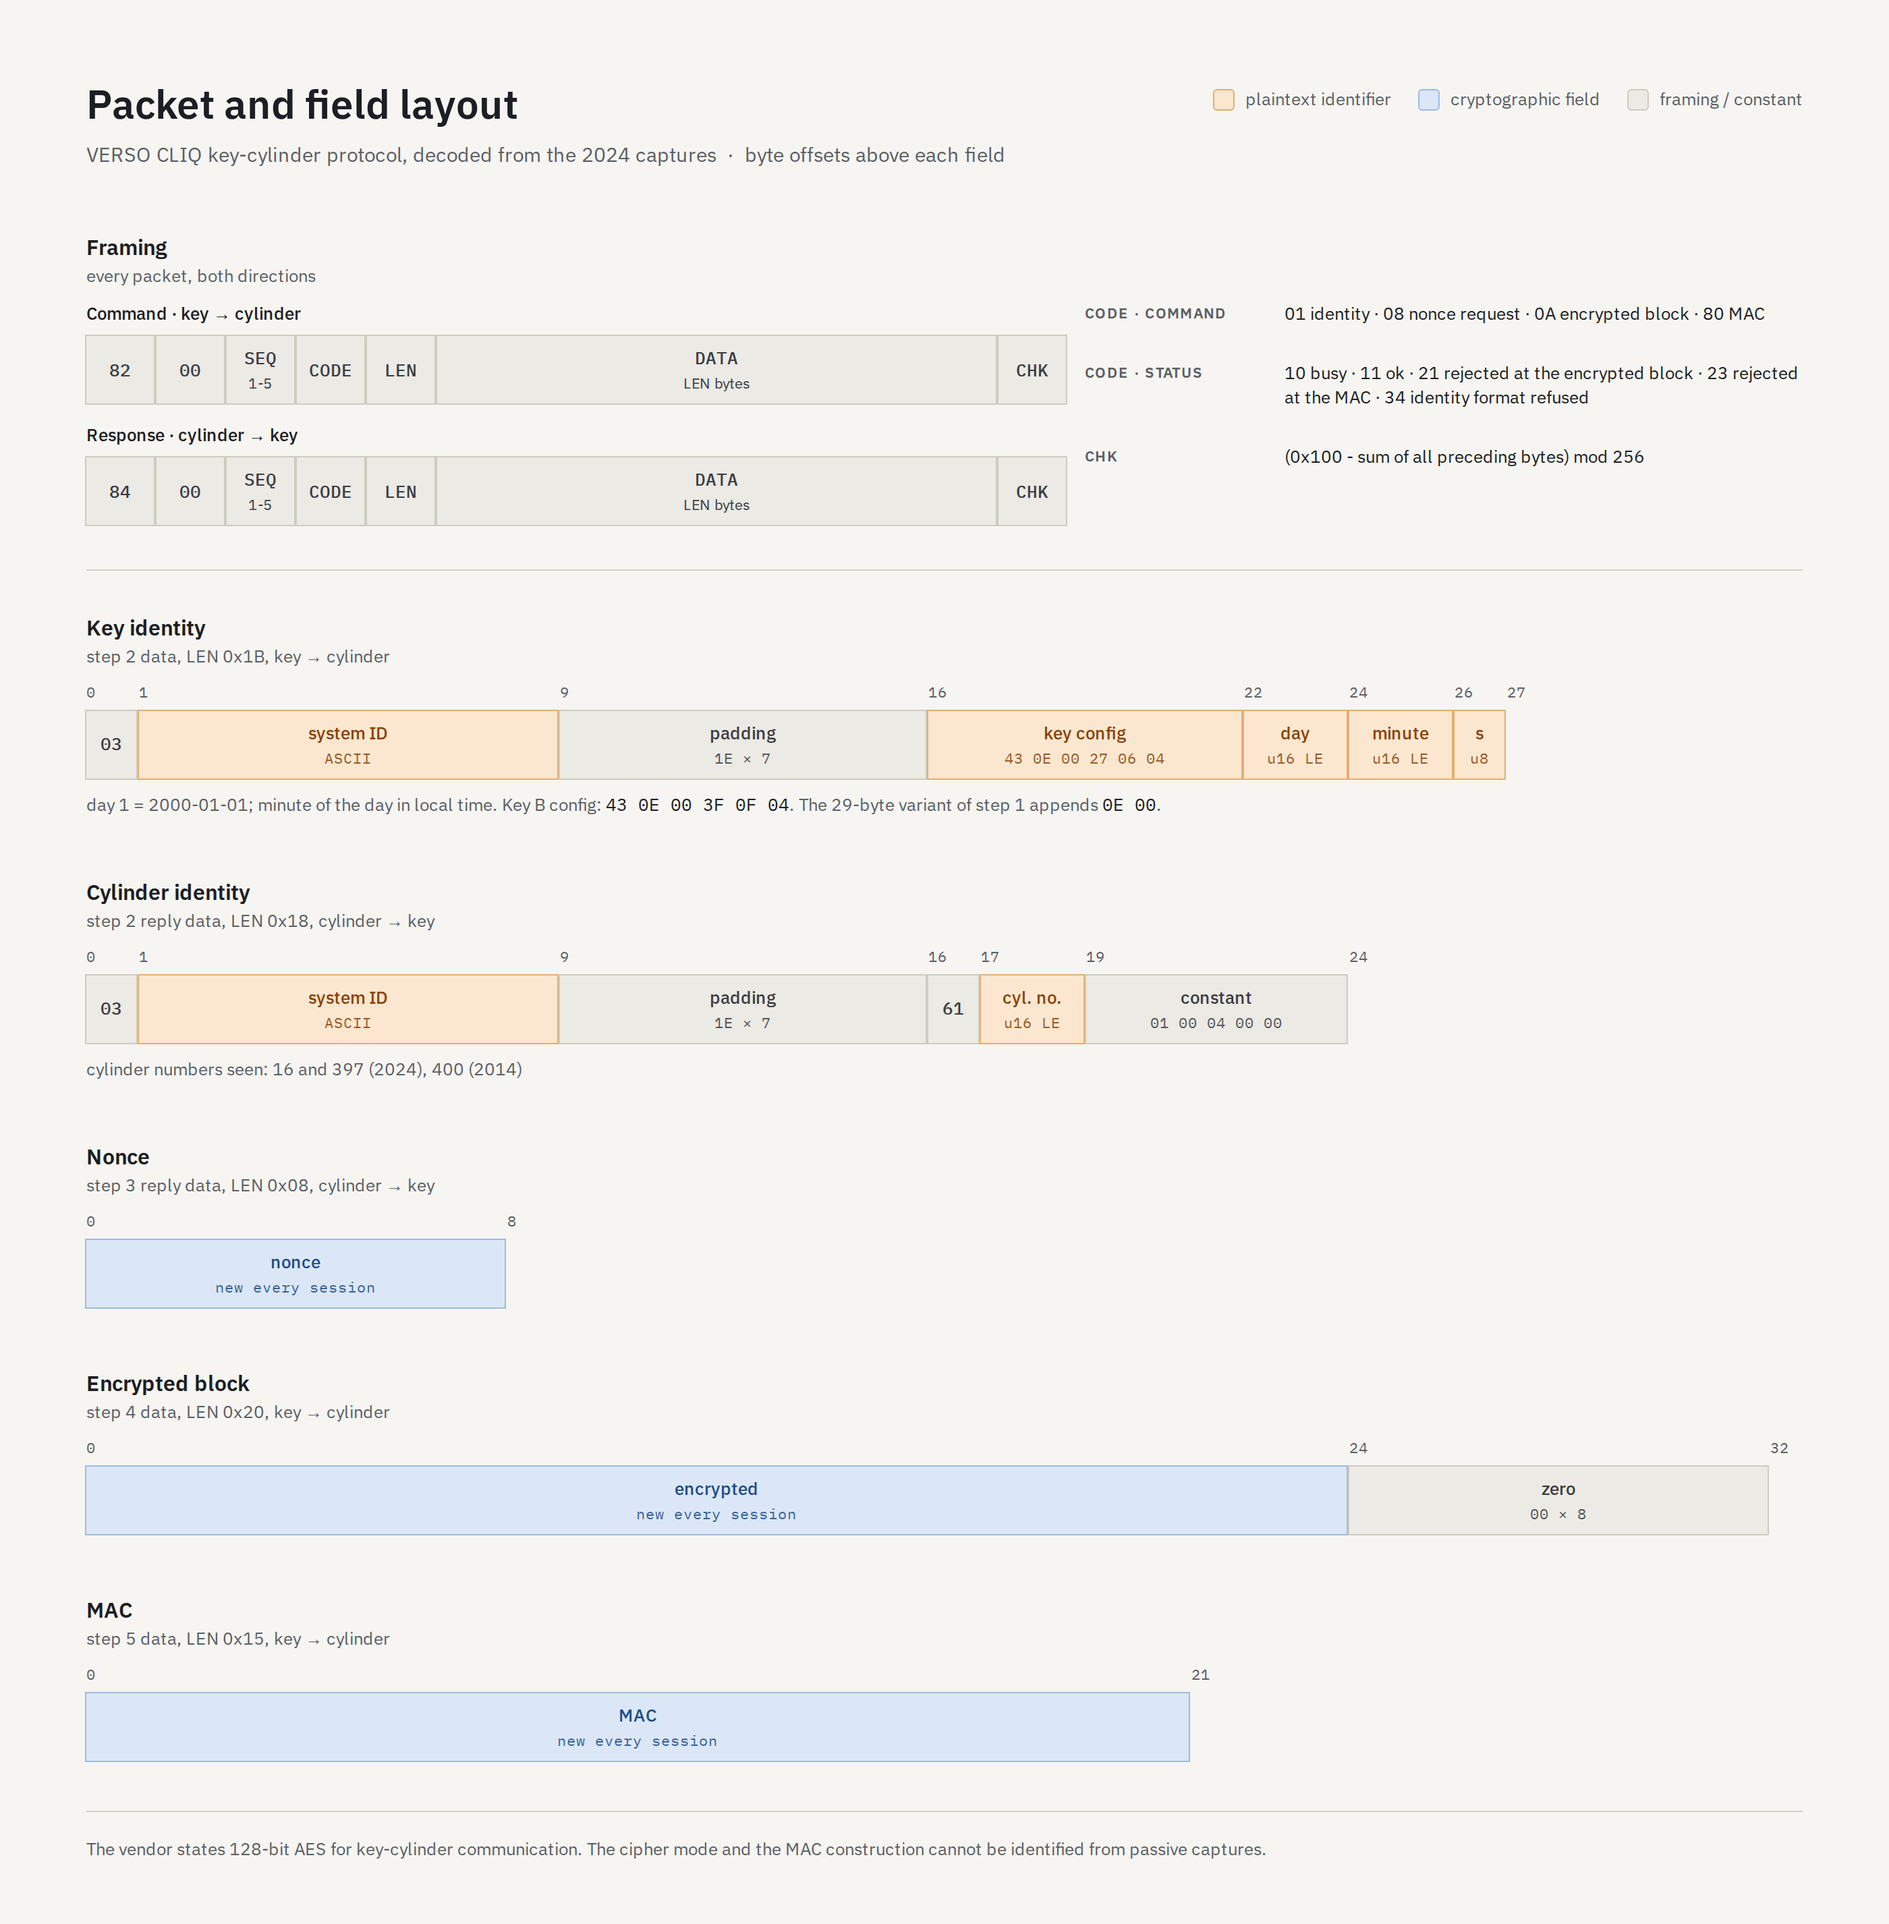
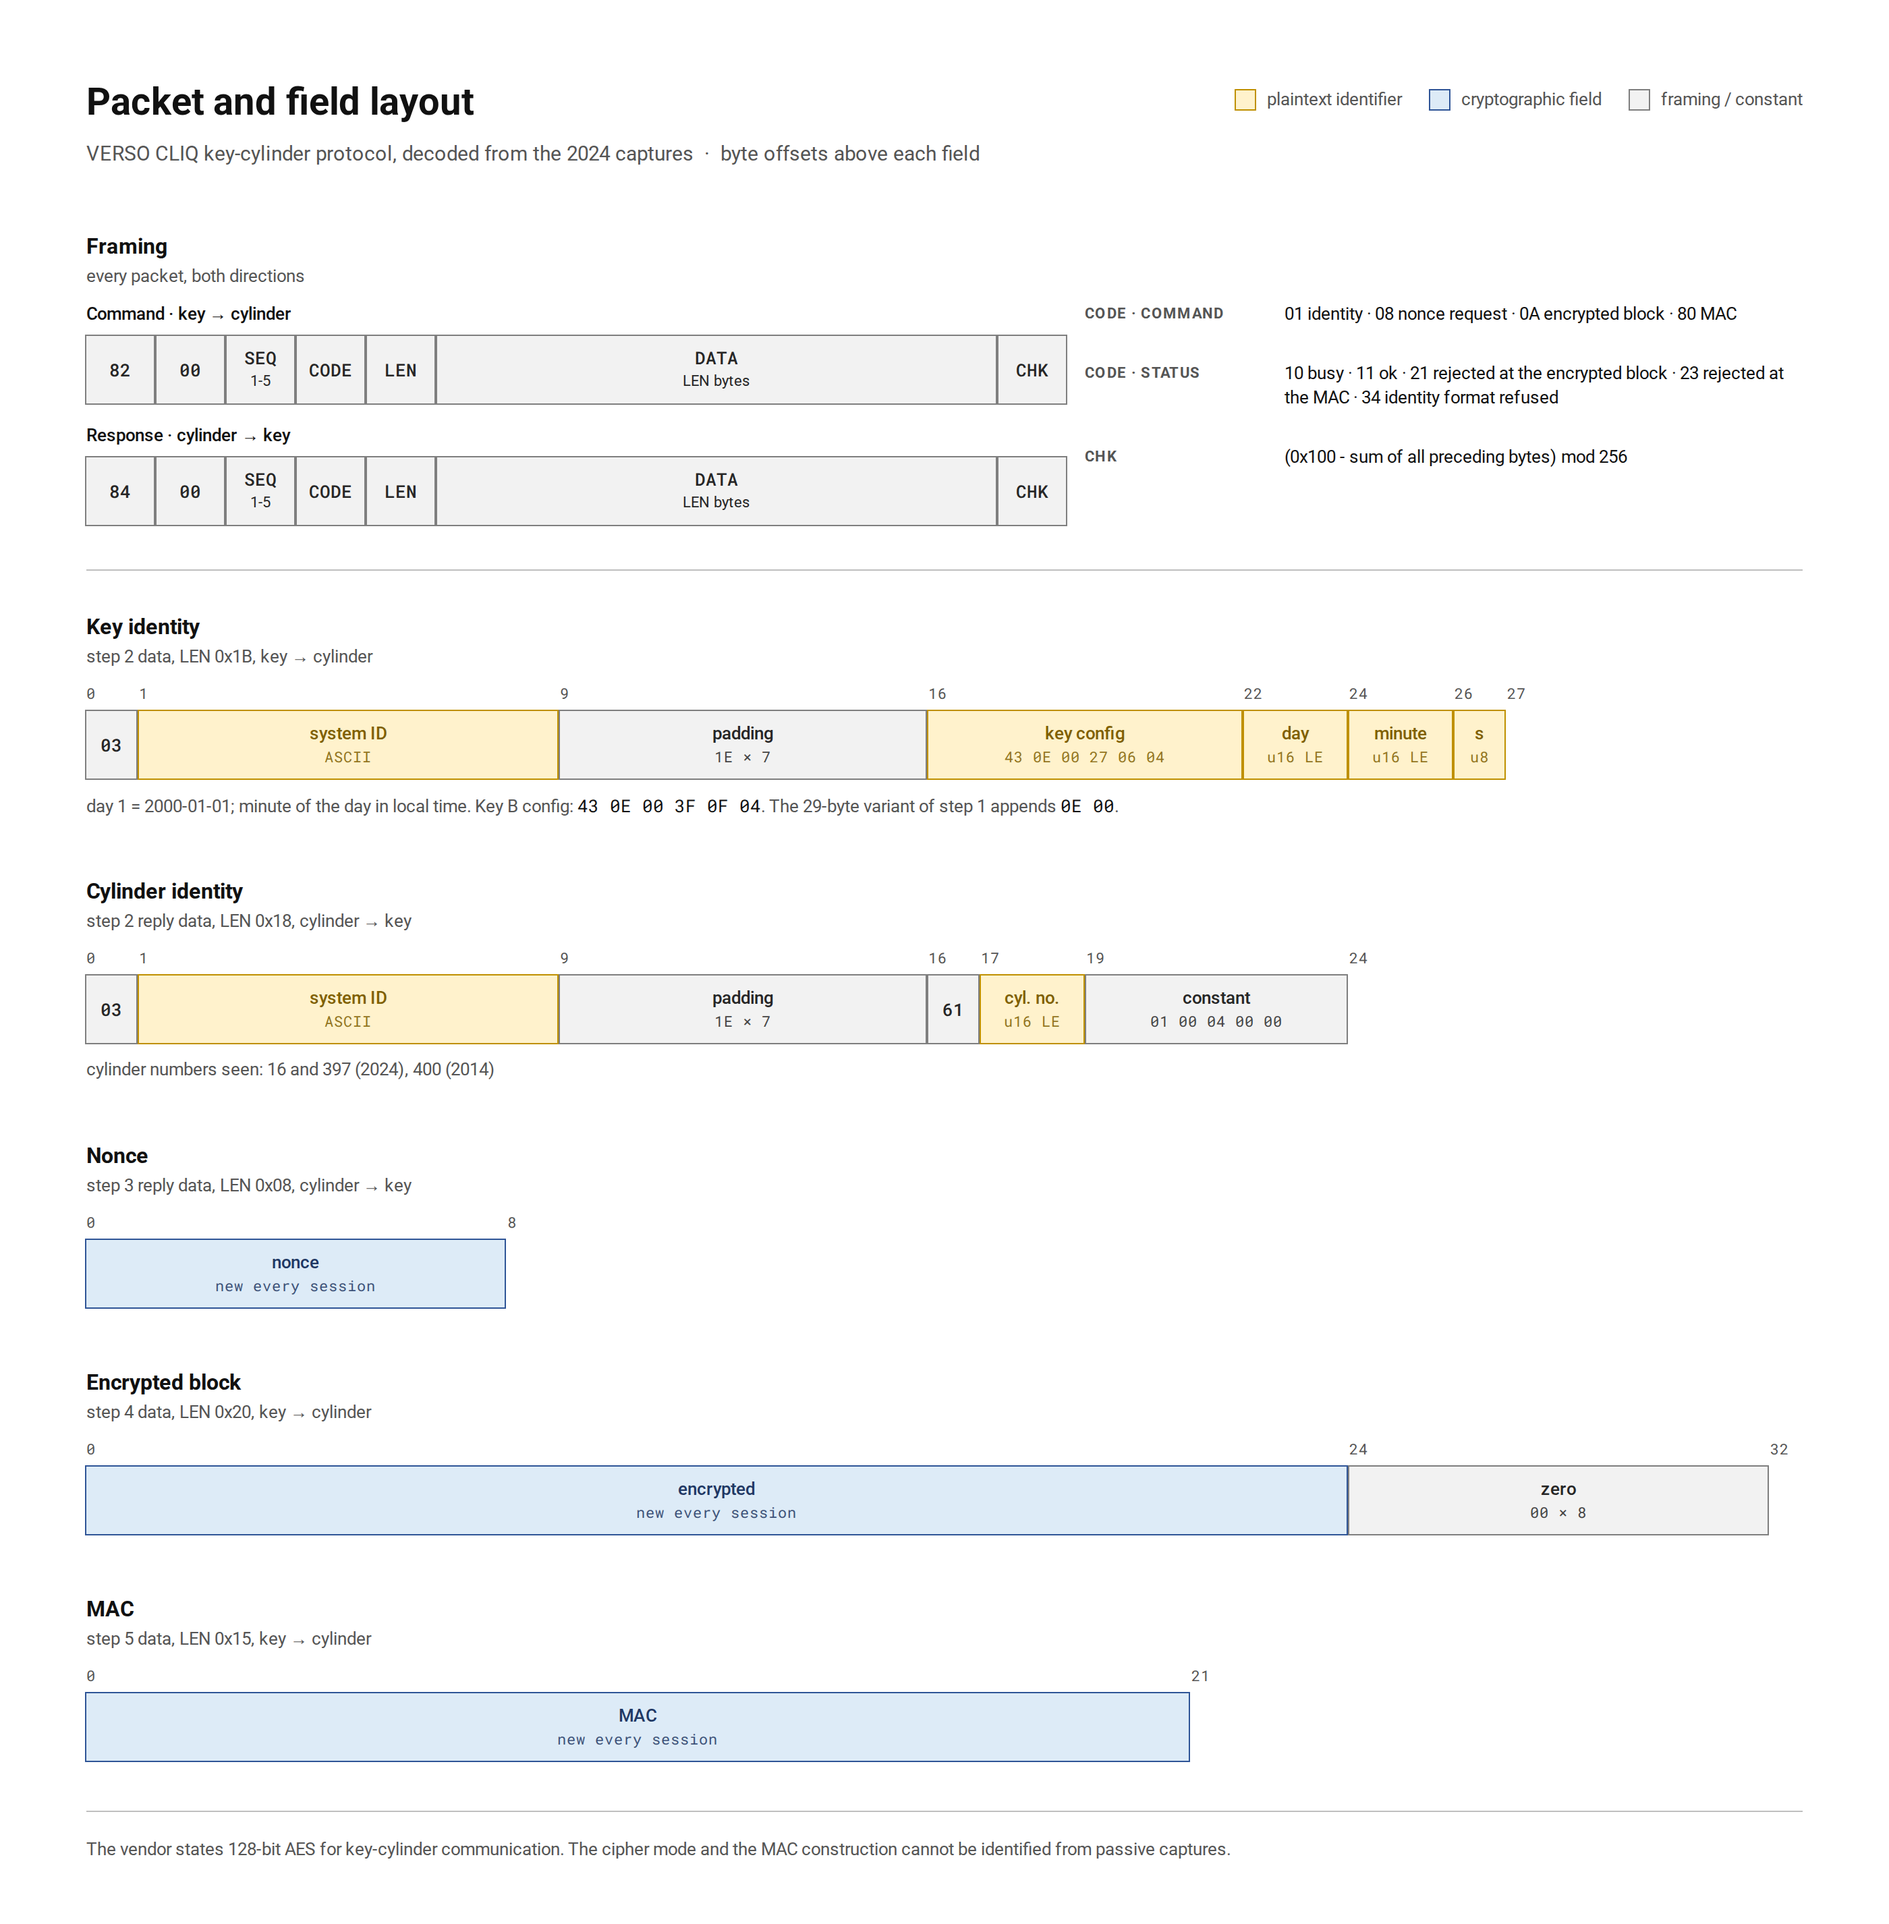
Restyle figures and trim README
- Redraw protocol_flow.png and packet_format.png in a plain
  engineering style: white background, black linework, square
  boxes, Roboto/Roboto Mono, yellow for plaintext identifiers and
  light blue for cryptographic fields
- Remove the Related Work and Corrections to Earlier Versions
  sections from the README
- Complete reference entries with verified pages and DOIs

diff --git a/scripts/generate_images.py b/scripts/generate_images.py
@@ -21,20 +21,22 @@ from sessions import REPO_ROOT, load_captures, unique
 OUT = os.path.join(REPO_ROOT, 'assets')
 
 # Design tokens
-GROUND = '#F6F5F1'
-INK = '#1C1E23'
-MUTED = '#5B5F66'
-RULE = '#D5D1C7'
-LIFELINE = '#B9B4A8'
-ARROW = '#2B2E35'
-BUSY = '#9E998D'
-AMBER = ('#FBE7CF', '#E3AE72', '#8A4208')    # fill, border, ink: plaintext identifiers
-BLUE = ('#DBE7F6', '#9DBBE3', '#1D4C87')     # cryptographic fields
-GREY = ('#ECEAE4', '#CFCBC1', '#3A3D44')     # framing, constants
-SANS = "'IBM Plex Sans', 'Helvetica Neue', Arial, sans-serif"
-MONO = "'IBM Plex Mono', 'SFMono-Regular', Menlo, Consolas, monospace"
+GROUND = '#FFFFFF'
+INK = '#111111'
+MUTED = '#555555'
+RULE = '#BFBFBF'
+LIFELINE = '#404040'
+ARROW = '#111111'
+BUSY = '#808080'
+AMBER = ('#FFF2CC', '#BF9000', '#7F6000')    # fill, border, ink: plaintext identifiers
+BLUE = ('#DDEBF7', '#2F5597', '#1F3864')     # cryptographic fields
+GREY = ('#F2F2F2', '#7F7F7F', '#262626')     # framing, constants
+CARD_RADIUS = 0
+PILL_RADIUS = 2
+SANS = "'Roboto', 'Helvetica Neue', Arial, sans-serif"
+MONO = "'Roboto Mono', Consolas, 'DejaVu Sans Mono', monospace"
 FONTS = ('<link rel="stylesheet" href="https://fonts.googleapis.com/css2?'
-         'family=IBM+Plex+Mono:wght@400;500&family=IBM+Plex+Sans:wght@400;500;600&display=swap">')
+         'family=Roboto+Mono:wght@400;500&family=Roboto:wght@400;500;700&display=swap">')
 W = 1400
 
 
@@ -66,7 +68,7 @@ def text(x, y, content, size=15, weight=400, color=INK, width=None, family=SANS,
 def pill(label, colors, mono=False):
     fill, border, ink = colors
     family = MONO if mono else SANS
-    return (f'<span style="display: inline-block; padding: 0 7px; margin: 0 2px; border-radius: 4px; '
+    return (f'<span style="display: inline-block; padding: 0 7px; margin: 0 2px; border-radius: {PILL_RADIUS}px; '
             f'background: {fill}; border: 1px solid {border}; color: {ink}; font-family: {family}; '
             f'font-size: 12px; line-height: 20px; font-weight: 500; vertical-align: 1px">{label}</span>')
 
@@ -109,7 +111,7 @@ def arrow(x1, x2, y, color=ARROW, width=2, dash=False):
 def legend(right, y):
     items = [('plaintext identifier', AMBER), ('cryptographic field', BLUE), ('framing / constant', GREY)]
     html = ''.join(f'<span style="display: flex; align-items: center; gap: 8px">'
-                   f'<span style="width: 14px; height: 14px; border-radius: 3px; background: {c[0]}; '
+                   f'<span style="width: 14px; height: 14px; background: {c[0]}; '
                    f'border: 1px solid {c[1]}"></span>{label}</span>' for label, c in items)
     return (f'<div style="position: absolute; right: {right}px; top: {y}px; display: flex; gap: 20px; '
             f'font-size: 13px; line-height: 20px; color: {MUTED}">{html}</div>')
@@ -168,7 +170,7 @@ def protocol_flow(uniq):
     ]
 
     el = []
-    el.append(text(64, 56, 'Unlock sequence', size=30, weight=600))
+    el.append(text(64, 56, 'Unlock sequence', size=28, weight=700))
     el.append(text(64, 104, f'VERSO CLIQ key and cylinder, 2024 captures &nbsp;·&nbsp; {len(uniq)} sessions, '
                             f'2 keys, 2 cylinders &nbsp;·&nbsp; {min(totals):.1f}-{max(totals):.1f} ms per unlock',
                    size=15, color=MUTED))
@@ -179,8 +181,8 @@ def protocol_flow(uniq):
                          (CX, 'Cylinder', 'no battery · keeps rights and audit log')):
         el.append(f'<div style="position: absolute; left: {x - 140}px; top: 164px; width: 280px; height: 64px; '
                   f'box-sizing: border-box; display: flex; align-items: center; justify-content: center; '
-                  f'text-align: center; background: #FFFFFF; border: 1px solid {RULE}; border-radius: 8px">'
-                  f'<span><b style="font-size: 16px; font-weight: 600">{name}</b><br>'
+                  f'text-align: center; background: #FFFFFF; border: 1px solid {LIFELINE}; border-radius: {CARD_RADIUS}px">'
+                  f'<span><b style="font-size: 16px; font-weight: 700">{name}</b><br>'
                   f'<span style="font-size: 12px; color: {MUTED}">{sub}</span></span></div>')
 
     y = 268
@@ -190,9 +192,9 @@ def protocol_flow(uniq):
             rows.append(hline(64, y, W - 128))
             y += 24
         top = y
-        rows.append(text(64, top, f'STEP {num}', size=12, weight=600, color=MUTED,
+        rows.append(text(64, top, f'STEP {num}', size=12, weight=700, color=MUTED,
                          extra=' letter-spacing: 0.08em;'))
-        rows.append(text(64, top + 20, title, size=17, weight=600, width=240))
+        rows.append(text(64, top + 20, title, size=17, weight=700, width=240))
         rows.append(text(64, top + 46, note, size=13, color=MUTED, width=230))
         for item in items:
             if item[0] == 'wait':
@@ -264,7 +266,7 @@ def field_map(x, y, fields):
 
 
 def section(y, title, meta, fields, caption):
-    el = [text(64, y, title, size=16, weight=600),
+    el = [text(64, y, title, size=16, weight=700),
           text(64, y + 24, meta, size=13, color=MUTED)]
     el += field_map(64, y + 52, fields)
     if caption:
@@ -273,13 +275,13 @@ def section(y, title, meta, fields, caption):
 
 
 def packet_format(uniq):
-    el = [text(64, 56, 'Packet and field layout', size=30, weight=600),
+    el = [text(64, 56, 'Packet and field layout', size=28, weight=700),
           text(64, 104, 'VERSO CLIQ key-cylinder protocol, decoded from the 2024 captures &nbsp;·&nbsp; '
                         'byte offsets above each field', size=15, color=MUTED),
           legend(64, 64)]
 
     y = 172
-    el.append(text(64, y, 'Framing', size=16, weight=600))
+    el.append(text(64, y, 'Framing', size=16, weight=700))
     el.append(text(64, y + 24, 'every packet, both directions', size=13, color=MUTED))
     frame = [('SEQ', 1, GREY, '1-5'), ('CODE', 1, GREY, None), ('LEN', 1, GREY, None),
              ('DATA', 8, GREY, 'LEN bytes'), ('CHK', 1, GREY, None)]
@@ -305,7 +307,7 @@ def packet_format(uniq):
     tx = 64 + 13 * 52 + 64
     cy = y + 52
     for k, v in codes:
-        el.append(text(tx, cy + 1, k.upper(), size=11, weight=600, color=MUTED, width=140,
+        el.append(text(tx, cy + 1, k.upper(), size=11, weight=700, color=MUTED, width=140,
                        extra=' letter-spacing: 0.06em;'))
         el.append(text(tx + 148, cy, v, size=13, width=W - 64 - tx - 148))
         cy += 62 if len(v) > 60 else 44

diff --git a/README.md b/README.md
@@ -105,7 +105,7 @@ The key is the bus master and powers the cylinder through the contact; the cylin
 
 **Byte framing and busy polls.** While the cylinder computes, the key reads a single status bit from it about every 1.15 ms. These one-bit reads are separated from the bytes around them by idle gaps. The decoder ([`scripts/decode_signal.py`](scripts/decode_signal.py)) splits the signal at every idle gap longer than 150 µs and re-establishes byte alignment after each one. One-bit groups are recorded as busy polls, and the rest are parsed as packets and validated with the length field and checksum. The decoder accepts both relative and absolute (ISO 8601) timestamps.
 
-> An earlier version of the decoder concatenated all bits of a capture. The busy-poll bits then shifted every following byte by 4 bits, so no nonce, encrypted block or MAC was found in the 2024 captures. All results derived from that decoding have been withdrawn (§10).
+> An earlier version of the decoder concatenated all bits of a capture. The busy-poll bits then shifted every following byte by 4 bits, so no nonce, encrypted block or MAC was found in the 2024 captures. All results derived from that decoding have been withdrawn.
 
 **Result: 308 of 308 packets in the 22 sessions, and 8 of 8 packets in the fragments, have a consistent length field and a valid checksum. All 22 sessions end in a successful unlock.**
 
@@ -314,26 +314,6 @@ Together with the absence of distance bounding, this makes a relay attack plausi
 | Capture a cylinder that accepts the 29-byte identity | The meaning of the newer format; whether a downgrade is possible |
 | Export the remaining `.sal` recordings; capture more keys and installations | Larger sample; which fields are installation-specific |
 | Power or EM traces during the encrypted-block and MAC steps | Side-channel leakage (cf. [R5], [R7]) |
-
----
-
-## 10. Corrections to Earlier Versions
-
-The version of this README published before this revision contained claims that do not hold once the captures are decoded correctly:
-
-| Earlier claim | Correction |
-|---------------|-----------|
-| MAC is SHA-1 from a Maxim DS28EC20 (`Compute MAC`), "high confidence" | The DS28EC20 is a plain 20 Kb 1-Wire EEPROM without a SHA-1 engine or MAC command [D1], and its commands do not match the observed codes. The MAC construction is unknown. |
-| MAC is 22 bytes (20 B SHA-1 + 2 B device status) | The MAC field is 21 bytes (`LEN 0x15`). The 22nd byte is the packet checksum. |
-| AES mode narrowed down from the 24 + 8 byte layout | AES-128 is the vendor's statement [V1]. The layout fits several modes, and passive data cannot identify the mode. |
-| Trailing byte unidentified after a CRC-8 search | It is an 8-bit additive checksum (§3.2). |
-| Bytes 27-28 identify the key; bytes 29-33 are a counter or session value | Identity bytes 22-26 are the key's date and time (§4.2). The keys differ in the configuration block. |
-| 2014 data from two different keys | All eight 2014 sessions are from one key at one cylinder (number 400), on two days. |
-| 23 captured sessions | 22 unique sessions from 2024 in this repository. The 15 files of the earlier version contained 12 unique recordings. |
-| `user1_key` and `user2_key` hold the two users' sessions | `user1_key/session_05-08` were recorded with key B. |
-| Unlock takes ~7.6 ms; ~255 bytes per session | The exchange takes 83.8-87.4 ms. The byte count was an artefact of the decoder. |
-| Protocol unchanged for 10 years | The 2024 key adds a 29-byte identity attempt, and the steps are renumbered (§3.3). The 27-byte layout is still accepted. |
-| Avalanche, entropy-map and same-key/cross-key results | They were computed at fixed byte offsets of misaligned data that did not contain the nonce or MAC. Replaced by §5.2. |
 
 ---
 
